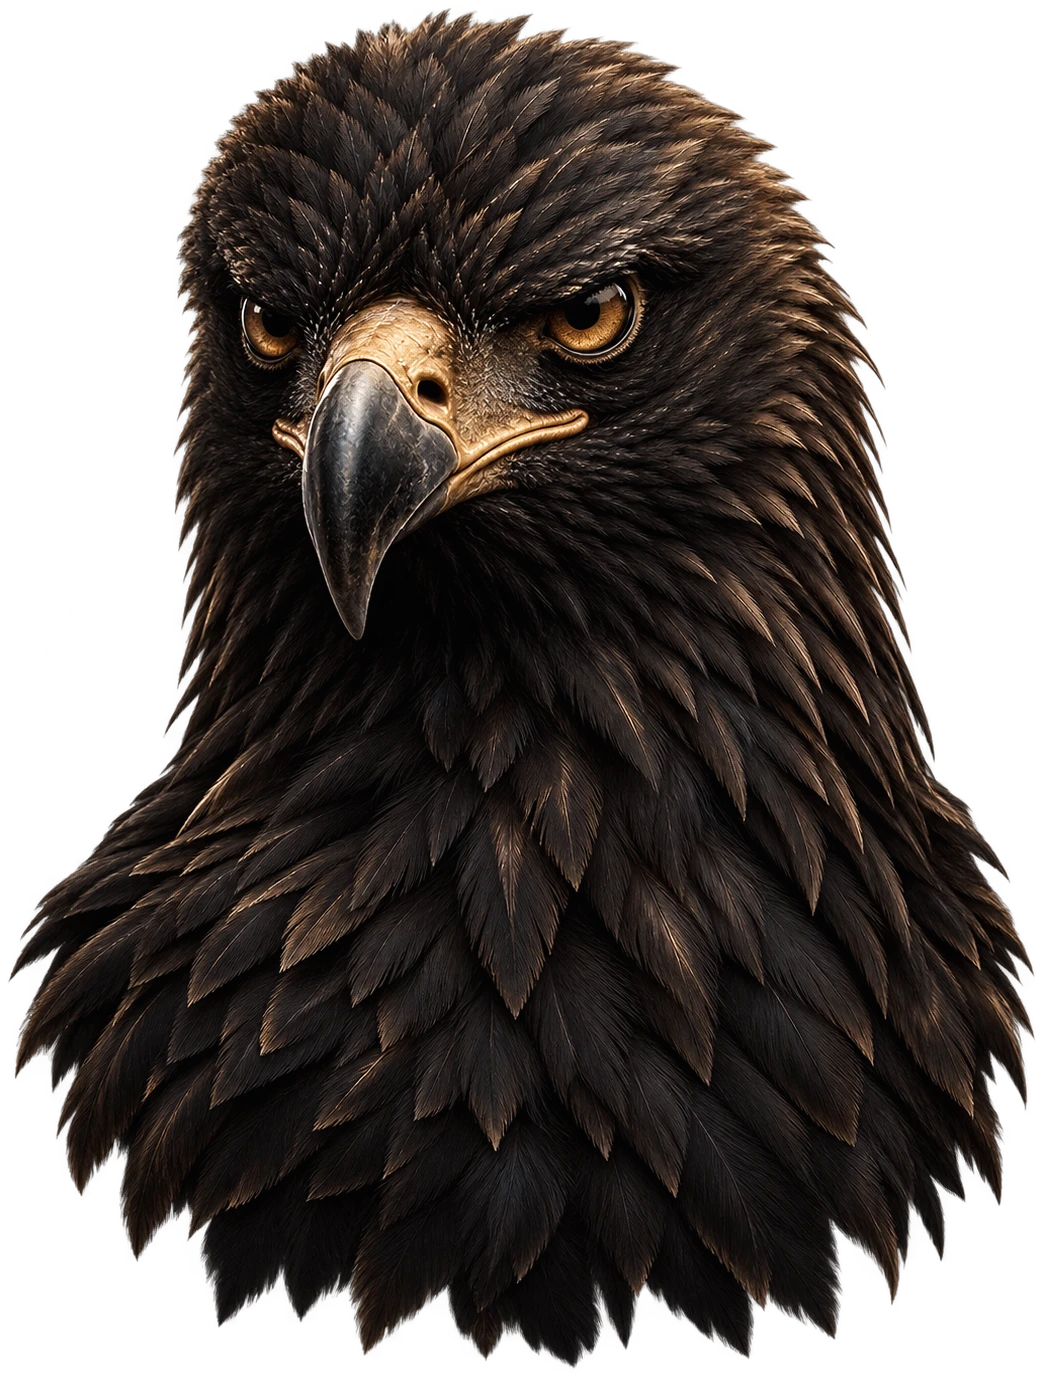
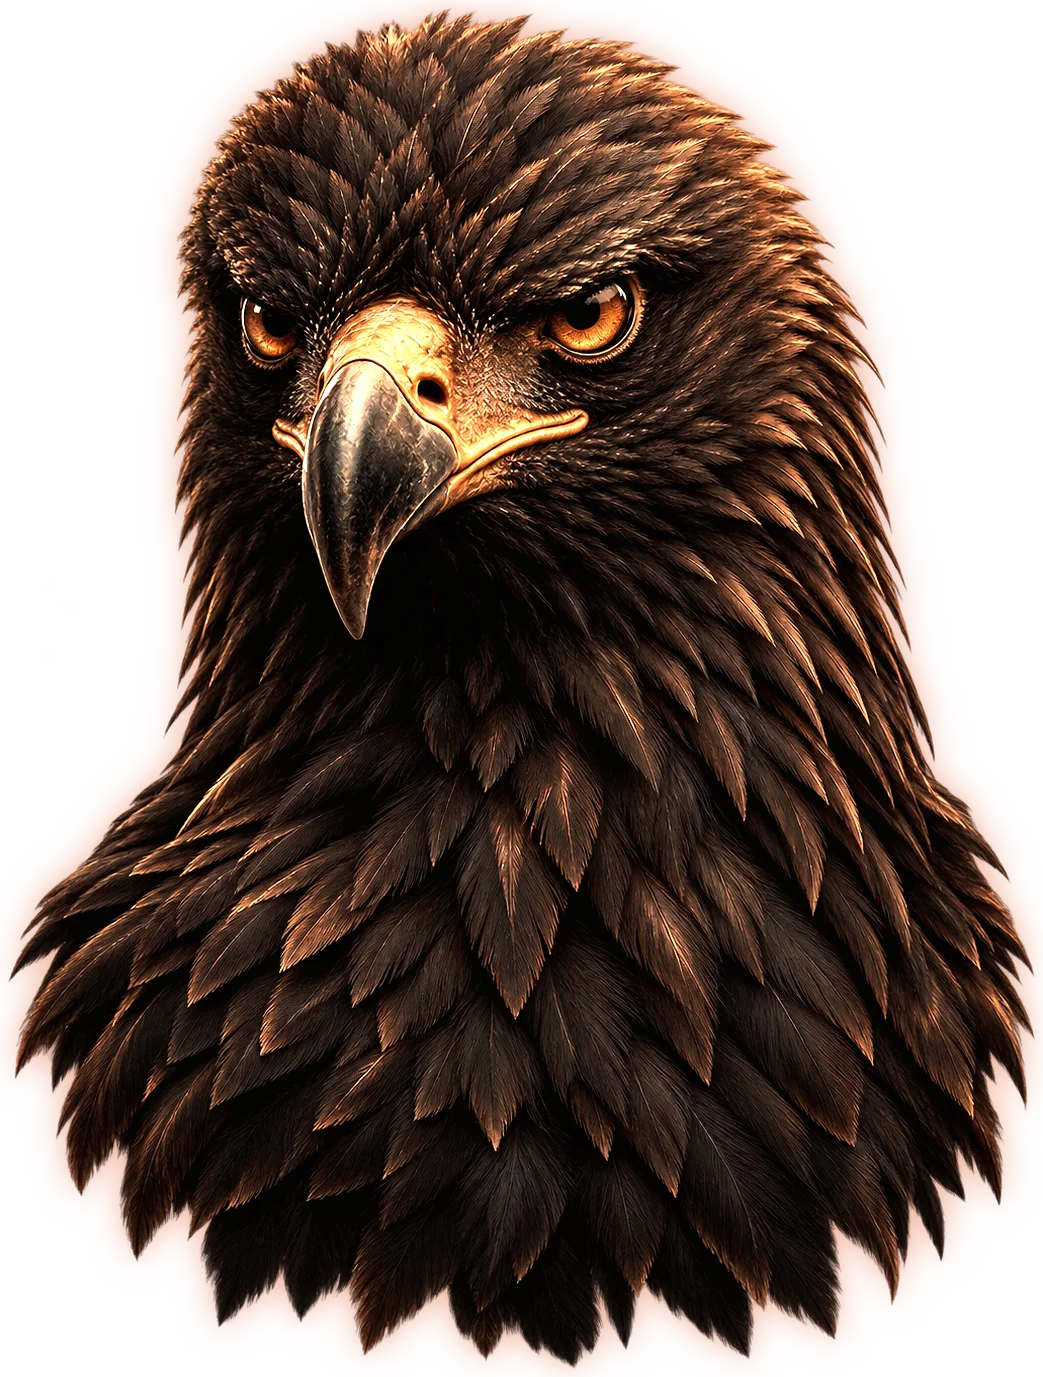
feat(hero): visual quente como a referência (águia, fundo e CTA)
Águia regerada do original com tom ferrugem e luz Páprica nas bordas
(gravado no arquivo, mesmas dimensões); halo Páprica e chocolate no
fundo da Hero; apoio da headline em chocolate; CTA Páprica viva.

diff --git a/css/hero.css b/css/hero.css
@@ -317,6 +317,20 @@
   mask-image: var(--wipe-hide, none);
 }
 
+/* Gradação quente da Hero (07/11/2026, referência do usuário): chocolate avermelhado à esquerda e um halo Páprica
+   amplo atrás da cabeça, preso à posição da águia (--face-x/--eyes-y), no desktop e no mobile. Fica entre o campo de
+   luz e a águia; sai junto com a faixa do topo na passagem para a seção 03 (mesma máscara). */
+.hero__bg::before {
+  content: "";
+  position: absolute;
+  inset: 0;
+  background:
+    radial-gradient(62% 82% at var(--face-x, 70%) var(--eyes-y, 40%), rgb(232 98 47 / 0.5) 0%, rgb(214 84 38 / 0.28) 45%, rgb(214 84 38 / 0) 78%),
+    linear-gradient(90deg, rgb(60 24 14 / 0.5) 0%, rgb(60 24 14 / 0.3) 48%, rgb(60 24 14 / 0.08) 100%);
+  -webkit-mask-image: var(--wipe-hide, none);
+  mask-image: var(--wipe-hide, none);
+}
+
 .has-light-field .hero__light,
 .has-light-field .hero__sheen,
 .has-light-field .hero__shadow,
@@ -478,10 +492,17 @@
   background: linear-gradient(
     0deg,
     var(--color-bg-deep) 0%,
-    rgb(51 43 35 / 0.9) 20%,
-    rgb(51 43 35 / 0.45) 55%,
-    rgb(51 43 35 / 0) 100%
+    rgb(52 30 20 / 0.88) 20%,
+    rgb(60 30 18 / 0.4) 55%,
+    rgb(60 30 18 / 0) 100%
   );
+}
+
+/* CTA da Hero: Páprica mais viva e um brilho curto (referência do usuário); o texto Grafite segue ≥ 4,5:1 */
+.hero .shiny-cta {
+  --shiny-bg: #E4622F;
+  --shiny-bg-subtle: color-mix(in srgb, #E4622F 90%, var(--color-graphite));
+  box-shadow: 0 0 26px rgb(232 98 47 / 0.38);
 }
 
 /* ---------- Conteúdo: headline na abertura (subheadline e CTA preservados em <template>) ---------- */
@@ -507,9 +528,9 @@
   width: 62vw;
   background: radial-gradient(
     70% 55% at 30% 50%,
-    rgb(34 32 29 / 0.8) 0%,
-    rgb(34 32 29 / 0.66) 70%,
-    rgb(34 32 29 / 0) 100%
+    rgb(36 20 14 / 0.8) 0%,
+    rgb(36 20 14 / 0.66) 70%,
+    rgb(36 20 14 / 0) 100%
   );
   /* Refino cromático (07/11): o apoio pertence ao plano do texto, que fica acima da águia; com 62vw ele chegava ao lado
      esquerdo da cabeça (~0,6 de Grafite sobre o olho a 1440). A máscara horizontal mantém o apoio inteiro até perto do fim
@@ -931,9 +952,9 @@
     height: calc(var(--scrim-end) + 72px);
     background: linear-gradient(
       180deg,
-      rgb(34 32 29 / 0.62) 0,
-      rgb(34 32 29 / 0.52) var(--scrim-end),
-      rgb(34 32 29 / 0) 100%
+      rgb(36 20 14 / 0.62) 0,
+      rgb(36 20 14 / 0.52) var(--scrim-end),
+      rgb(36 20 14 / 0) 100%
     );
     /* empilhado: a faixa é horizontal e termina acima da cabeça; o corte lateral do desktop não se aplica */
     -webkit-mask-image: none;

diff --git a/tools/preparar-assets.html b/tools/preparar-assets.html
@@ -10,14 +10,20 @@
 <pre id="log"></pre>
 <div id="out"></div>
 <script>
+// blur do brilho em px do arquivo final (1043 px de largura → 16; 900 px → 11)
+function HERO_EAGLE_FILTER(glow) {
+  return "saturate(0.92) contrast(1.04) sepia(0.45) saturate(1.9) hue-rotate(-12deg) brightness(1.28) contrast(1.06) " +
+    `drop-shadow(0 0 ${glow}px rgba(232, 98, 47, 0.5))`;
+}
 const jobs = [
   // [origem, destino, formato, qualidade, largura máxima, margem em px]
   ["assets/source/brand/vipzue-logo-marfim.png", "assets/brand/vipzue-logo-marfim.png", "image/png", 1, 1200, 0],
   ["assets/source/brand/vipzue-logo-champagne.png", "assets/brand/vipzue-logo-champagne.png", "image/png", 1, 1200, 0],
   ["assets/source/brand/vipzue-logo-marrom.png", "assets/brand/vipzue-logo-marrom.png", "image/png", 1, 1200, 0],
   // A águia recebe o ajuste tonal da Hero já gravado no arquivo (evita filter CSS animado/escalado).
-  ["assets/source/hero/aguia.png", "assets/hero/aguia-1400.webp", "image/webp", 0.9, 1400, 8, "saturate(0.92) contrast(1.04)"],
-  ["assets/source/hero/aguia.png", "assets/hero/aguia-900.webp", "image/webp", 0.88, 900, 8, "saturate(0.92) contrast(1.04)"],];
+  // 07/11/2026: tom quente (penas castanho-ferrugem) e luz Páprica nas bordas, como a referência do usuário.
+  ["assets/source/hero/aguia.png", "assets/hero/aguia-1400.webp", "image/webp", 0.84, 1400, 8, HERO_EAGLE_FILTER(16)],
+  ["assets/source/hero/aguia.png", "assets/hero/aguia-900.webp", "image/webp", 0.82, 900, 8, HERO_EAGLE_FILTER(11)],];
 const log = (m) => (document.getElementById("log").textContent += m + "\n");
 
 function load(src) {

diff --git a/docs/ANDAMENTO.md b/docs/ANDAMENTO.md
@@ -1,5 +1,20 @@
 # Andamento — VIPZUE 2026
 
+## 07/11/2026 — Hero quente, como a referência do usuário (local, não publicado)
+
+**Pedido:** duas imagens de referência (desktop e mobile) — "consegue deixar a hero assim?". Decisões do usuário: manter os display cards; aquecer a imagem atual (sem imagem nova). Branch `feat/hero-quente`.
+
+**Feito:**
+- **Águia:** `assets/hero/aguia-1400.webp` e `aguia-900.webp` regerados do original (`assets/source/hero/aguia.png`) com tom castanho-ferrugem e luz Páprica nas bordas, gravados no arquivo (sem filter CSS na rolagem/zoom).
+  - Mesmas dimensões (1043 × 1377 e 900 × 1188). Pesos: 487 KB (antes 466) e 333 KB (antes 304).
+  - Receita em `tools/preparar-assets.html` (`HERO_EAGLE_FILTER`).
+- **Fundo:** nova camada `.hero__bg::before` com chocolate avermelhado à esquerda e halo Páprica atrás da cabeça, preso a `--face-x`/`--eyes-y`. Sai na passagem para a 03 com a mesma máscara da faixa do topo. `js/light-field.js` não foi alterado.
+- **Apoio da headline** (desktop e mobile): de Grafite para chocolate escuro `rgb(36 20 14)`, mais escuro, então o contraste não cai.
+- **Base da águia:** degradê para o fundo seguinte agora em marrom quente (a cor final continua `--color-bg-deep`, a emenda não muda).
+- **CTA da Hero:** Páprica mais viva `#E4622F` com brilho curto; texto Grafite ≈ 4,7:1.
+
+**Verificado (local, Chrome):** 1600 × 900, 1440 × 900 e 390 × 844 próximos da referência. Cards no lugar. A Visão e a passagem para a 03 continuam funcionando. Sem rolagem lateral e sem erros no console.
+
 ## 07/11/2026 — Voo da águia removido da Hero (publicado em produção)
 
 **Publicação:** autorizada pelo usuário ("Sim, publicar").
